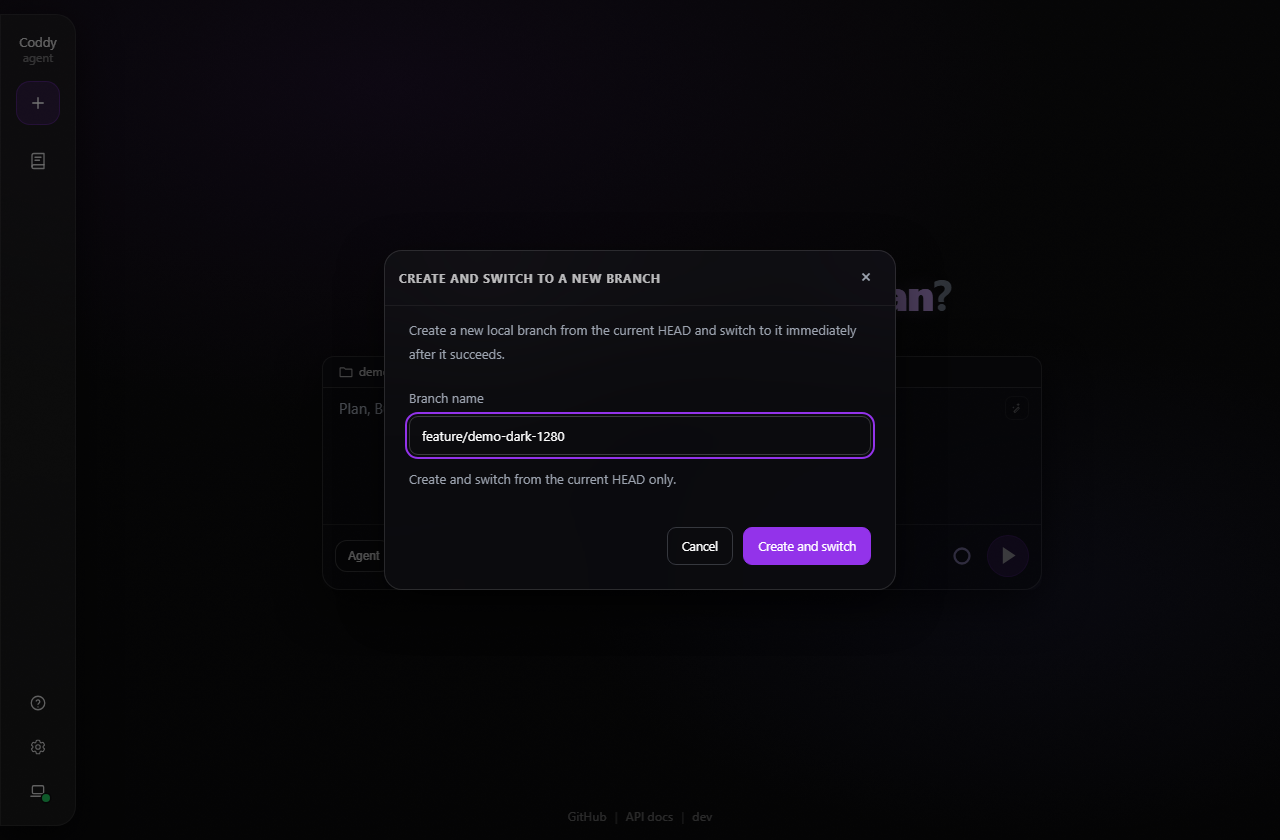
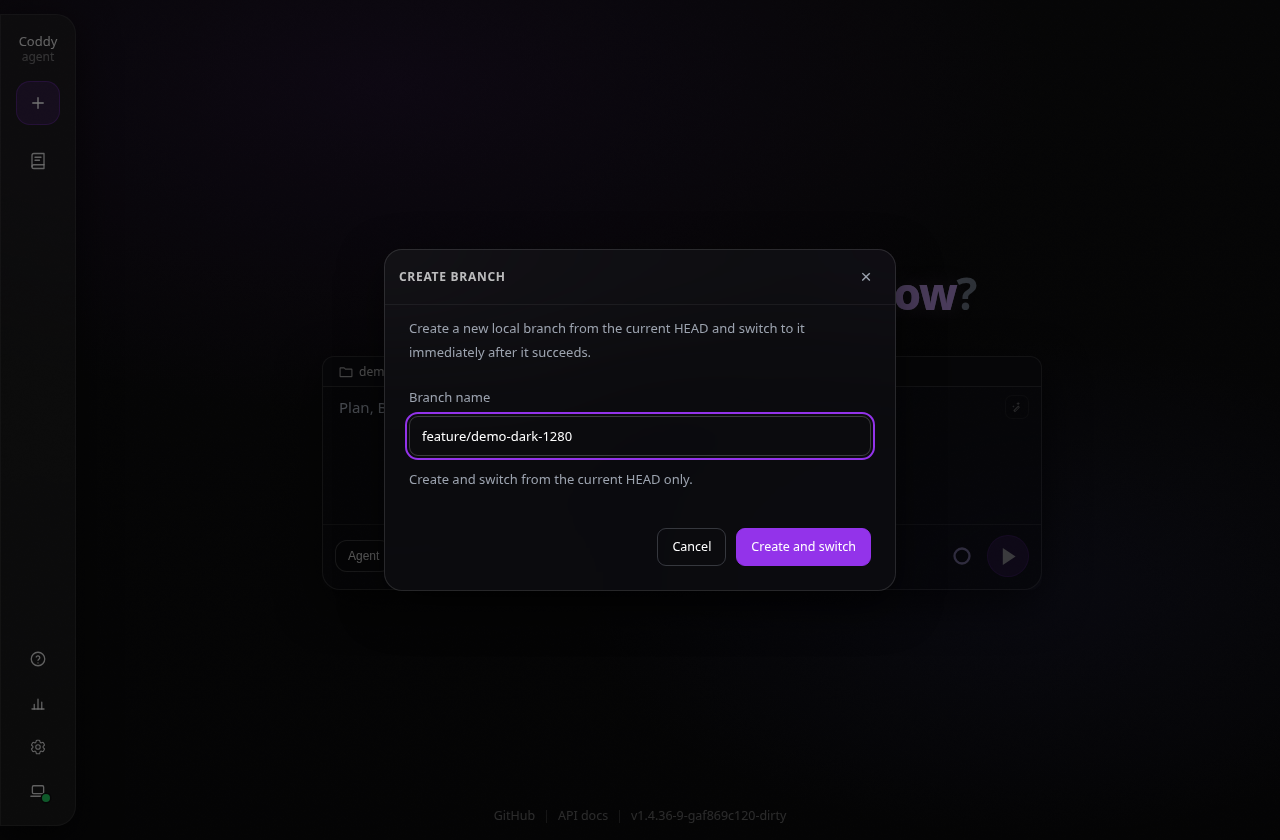
fix(ui): shorten the branch menu labels and name the graph by its content
The create row now reads "Create branch…" / "Создать ветку…" with the
dialog title following it, the confirm stays "Create and switch" /
"Создать и переключиться", and the graph menu reads "Commit history" /
"История коммитов" - one key the menu, the window title and the
aria-labels share. Tests, the workspace check script, both docs pages
and the spec name the labels as the interface shows them, and the docs
captures are retaken with the new titles.

diff --git a/external/ui/src/ui/i18n/messages/ru.ts b/external/ui/src/ui/i18n/messages/ru.ts
@@ -7,8 +7,8 @@ export const messagesRu: Record<string, string> = {
   "composer.serviceTier.ultrafast": "Сверхбыстрый",
   "composer.serviceTier.flex": "Flex",
 
-  "git.createMenu": "Создать ветку и переключиться…",
-  "git.createTitle": "Создать новую ветку и переключиться",
+  "git.createMenu": "Создать ветку…",
+  "git.createTitle": "Создать ветку",
   "git.createDescription":
     "Создайте локальную ветку от текущего HEAD и сразу переключитесь на неё.",
   "git.branchName": "Имя ветки",
@@ -17,7 +17,7 @@ export const messagesRu: Record<string, string> = {
   "git.createAction": "Создать и переключиться",
   "git.creating": "Создание…",
   "git.createFailed": "Не удалось создать ветку.",
-  "git.graph": "Git Graph",
+  "git.graph": "История коммитов",
   "git.refresh": "Обновить граф",
   "git.graphColumn": "Граф",
   "git.description": "Описание",

diff --git a/external/ui/src/ui/chat/WorkspaceChips.test.tsx b/external/ui/src/ui/chat/WorkspaceChips.test.tsx
@@ -61,16 +61,14 @@ afterEach(() => {
 });
 
 describe("WorkspaceChips", () => {
-  it("offers branch creation and Git Graph below the branch list", async () => {
+  it("offers branch creation and Commit history below the branch list", async () => {
     const create = vi.fn().mockResolvedValue(undefined);
     renderChips({ onCreateBranch: create });
     fireEvent.click(screen.getByTestId("composer-branch-chip"));
     expect(
-      screen.getByRole("menuitem", { name: "Git Graph" }),
+      screen.getByRole("menuitem", { name: "Commit history" }),
     ).toBeInTheDocument();
-    fireEvent.click(
-      screen.getByRole("menuitem", { name: /Create and switch to new branch/ }),
-    );
+    fireEvent.click(screen.getByRole("menuitem", { name: /Create branch/ }));
     expect(screen.queryByRole("menu")).toBeNull();
     const input = screen.getByRole("textbox", { name: "Branch name" });
     fireEvent.change(input, { target: { value: "feature/new" } });

diff --git a/external/ui/src/ui/i18n/messages/en.ts b/external/ui/src/ui/i18n/messages/en.ts
@@ -9,8 +9,8 @@ export const messagesEn: Record<string, string> = {
   "composer.serviceTier.ultrafast": "Ultrafast",
   "composer.serviceTier.flex": "Flex",
 
-  "git.createMenu": "Create and switch to new branch…",
-  "git.createTitle": "Create and switch to a new branch",
+  "git.createMenu": "Create branch…",
+  "git.createTitle": "Create branch",
   "git.createDescription":
     "Create a new local branch from the current HEAD and switch to it immediately after it succeeds.",
   "git.branchName": "Branch name",
@@ -19,7 +19,7 @@ export const messagesEn: Record<string, string> = {
   "git.createAction": "Create and switch",
   "git.creating": "Creating…",
   "git.createFailed": "Could not create the branch.",
-  "git.graph": "Git Graph",
+  "git.graph": "Commit history",
   "git.refresh": "Refresh graph",
   "git.graphColumn": "Graph",
   "git.description": "Description",

diff --git a/external/ui/src/ui/chat/WorkspaceBar.test.tsx b/external/ui/src/ui/chat/WorkspaceBar.test.tsx
@@ -177,7 +177,9 @@ test("a linked worktree has no exit button and its edits remain actionable", () 
   expect(onOpenEdits).toHaveBeenCalledTimes(1);
   expect(screen.queryByTestId("workspace-bar-leave")).toBeNull();
   expect(screen.getAllByRole("button")).toEqual([
-    screen.getByRole("button", { name: "Git Graph: feat/session-changes" }),
+    screen.getByRole("button", {
+      name: "Commit history: feat/session-changes",
+    }),
     edits,
   ]);
 });

diff --git a/external/ui/src/ui/chat/ChatScreen.test.tsx b/external/ui/src/ui/chat/ChatScreen.test.tsx
@@ -1210,7 +1210,9 @@ test("a linked worktree's plate has no exit button and still opens the edits", a
     expect(
       within(screen.getByTestId("workspace-bar")).getAllByRole("button"),
     ).toEqual([
-      screen.getByRole("button", { name: "Git Graph: feat/session-changes" }),
+      screen.getByRole("button", {
+        name: "Commit history: feat/session-changes",
+      }),
       edits,
     ]);
   } finally {

diff --git a/specs/ui/composer.md b/specs/ui/composer.md
@@ -63,13 +63,13 @@ The composer card has no chip row: before the chat starts, the folder, the branc
 - **What a new chat lists follows its folder** — the picked folder is the scope of everything the composer lists while you type: the **`/`** menu, **`@`** (files, rules, **`@agent:`** subagents), the mention highlight and the file a line range previews all carry **`cwd=<folder>`** next to the session header (**`chat/workspaceScope.ts`**). The known skill names that chip a **`/name`** in the composer and the transcript belong to the chat's folder and session: another pick or another session drops them at once and asks again, a late answer is discarded, and the first send of a new chat keeps them because its folder does not change.
 - Menus follow the **`Mode`**/**`Model`** conventions: anchored to the pick, **`mode-menu--portal`** (**`opens-down`** on the start screen, **`opens-up`** when docked) on desktop, full-width bottom sheet (**`mode-menu--sheet`**) on narrow shells.
 
-### Branch creation and Git Graph
+### Branch creation and commit history
 
-The branch menu ends with **Create and switch to new branch…** and **Git Graph**, below a separator. Both action rows keep a **14px** icon slot (**`.workspace-git-action-icon`**, the muted colour, a `PlusIcon` or `BranchIcon` svg) in the column the branch rows keep for the remote mark, and the label in **`.workspace-git-action-label`** with an ellipsis, so every row of the menu shares two columns. Creation is a centred form, at most 512px wide, with a description, labelled branch-name field, inline error, Cancel and Create and switch. It creates a local branch from the current checkout's HEAD immediately, independently of the worktree preference. The conversation lock still applies.
+The branch menu ends with **Create branch…** and **Commit history**, below a separator. Both action rows keep a **14px** icon slot (**`.workspace-git-action-icon`**, the muted colour, a `PlusIcon` or `BranchIcon` svg) in the column the branch rows keep for the remote mark, and the label in **`.workspace-git-action-label`** with an ellipsis, so every row of the menu shares two columns. Creation is a centred form, at most 512px wide, with a description, labelled branch-name field, inline error, Cancel and Create and switch. It creates a local branch from the current checkout's HEAD immediately, independently of the worktree preference. The conversation lock still applies.
 
 Both Git dialogs use the shared glass panel border, background, backdrop and shadow, the overlay scrim without fullscreen blur, and the app's inherited font. Their heads follow the Files window: 12px bold capitals in a 72% text tint and 30px icon controls. Buttons reuse the workspace dialog styles. Escape and a backdrop click close the window, Tab stays inside it, and closing returns focus to the branch control. Creation keeps the dialog open while a request runs and shows failures beside the field.
 
-Git Graph is at most 1100px wide and 740px tall, capped to the viewport with 16px margins. Its table has Graph, Description, Date, Author and Commit columns, 42px rows, sticky headings and a scrollport contained inside the window. Branch lines use the theme's syntax palette and accent. HEAD has an outlined label; other refs are muted, truncated with their full names in tooltips. The current row has a light text tint. Load more appends 100 commits; Refresh starts over. Narrow screens scroll the table horizontally while the head and footer remain visible. Simplified mode takes its opaque panel and cleared effects from the shared tokens.
+The commit history window is at most 1100px wide and 740px tall, capped to the viewport with 16px margins. Its table has Graph, Description, Date, Author and Commit columns, 42px rows, sticky headings and a scrollport contained inside the window. Branch lines use the theme's syntax palette and accent. HEAD has an outlined label; other refs are muted, truncated with their full names in tooltips. The current row has a light text tint. Load more appends 100 commits; Refresh starts over. Narrow screens scroll the table horizontally while the head and footer remain visible. Simplified mode takes its opaque panel and cleared effects from the shared tokens.
 
 A running chat's branch control opens this read-only graph; it never switches the locked workspace. The browser check is `npm run check:git`, with `CODDY_ENGINE=webkit` for WebKit.
 

diff --git a/docs/surfaces/web-ui.md b/docs/surfaces/web-ui.md
@@ -634,21 +634,21 @@ Functional checklist for **Settings -> Logical models -> Reasoning levels**
 - Errors (missing folder **400**, git conflicts / locked workspace **409**) keep the current chips; the context is re-fetched to stay truthful.
 - Automated checks: **`chat/workspaceContext.test.ts`**, **`chat/workspaceRecents.test.ts`** (helpers), **`chat/WorkspaceChips.test.tsx`** (chips, menus, the refresh behind the open branch list, the warning, remote rows, modal, lock), **`App.workspaceHome.test.tsx`** (which folder a refresh is asked for, and that a branch picked during it stays the choice), the scenario of the branch list during a refresh in **`features/web_ui_menus.feature`**; backend behavior is specified executable in **`features/workspace_switching.feature`** (godog), the fetch itself in **`internal/gitws/remotes_test.go`** (every remote, prune, nothing local touched, the refspec guard, the deadline, both git backends).
 
-### Branch creation and Git Graph
+### Branch creation and commit history
 
-The branch menu offers **Create and switch to new branch…**. Enter a branch name and choose **Create and switch**. Coddy creates a local branch at the checkout's current HEAD and switches immediately, before the first message. This action uses the current checkout even when the worktree checkbox is on. Git keeps uncommitted files when it can; an invalid or existing name leaves the dialog open with the error.
+The branch menu offers **Create branch…**. Enter a branch name and choose **Create and switch**. Coddy creates a local branch at the checkout's current HEAD and switches immediately, before the first message. This action uses the current checkout even when the worktree checkbox is on. Git keeps uncommitted files when it can; an invalid or existing name leaves the dialog open with the error.
 
 ![The create branch dialog in the dark theme](../assets/web-ui/git-branch-create-open-dark-1280.png)
 
-**Git Graph** in the same menu opens the commit history. After a conversation starts, click the branch name on the plate over the composer to open the graph. Creating or switching branches through the plate stays locked once the conversation starts.
+**Commit history** in the same menu opens the commit graph. After a conversation starts, click the branch name on the plate over the composer to open the graph. Creating or switching branches through the plate stays locked once the conversation starts.
 
 The graph shows branch and merge lines, HEAD, local and remote branch labels, tags, commit descriptions, dates, authors and short hashes. It reads 100 commits at a time; **Load more** adds older commits, and **Refresh graph** starts again from the newest ones. It reads local history without fetching or changing the checkout and requires the git executable.
 
-![Git Graph with a merge and branch labels in the dark theme](../assets/web-ui/git-graph-open-dark-1280.png)
+![Commit history with a merge and branch labels in the dark theme](../assets/web-ui/git-graph-open-dark-1280.png)
 
 On a phone the table scrolls horizontally inside the window. The title and close control stay in view. Both dialogs use the shared theme tokens and support Escape, keyboard focus within the dialog, and focus returning to the branch control.
 
-![Git Graph on a narrow screen](../assets/web-ui/git-graph-open-dark-390.png)
+![Commit history on a narrow screen](../assets/web-ui/git-graph-open-dark-390.png)
 
 Run `npm run check:git` in `external/ui` after building with `http,ui`. The check uses an isolated repository and no LLM, drives both dialogs on wide and narrow screens in light and dark themes, and checks transcript alignment. Set `CODDY_ENGINE=webkit` to run it in WebKit.
 

diff --git a/docs/assets/INDEX.md b/docs/assets/INDEX.md
@@ -554,9 +554,9 @@ Generated by `make docs`. "Used by" lists the files that reference the asset.
 | `diagrams-flowchart-dark-1280.png` | 258 KB | docs/ru/surfaces/web-ui.md, docs/surfaces/web-ui.md |
 | `diagrams-formulas-dark-1280.png` | 271 KB | docs/ru/surfaces/web-ui.md, docs/surfaces/web-ui.md |
 | `diagrams-source-dark-1280.png` | 288 KB | docs/ru/surfaces/web-ui.md, docs/surfaces/web-ui.md |
-| `git-branch-create-open-dark-1280.png` | 453 KB | docs/ru/surfaces/web-ui.md, docs/surfaces/web-ui.md |
-| `git-graph-open-dark-1280.png` | 239 KB | docs/ru/surfaces/web-ui.md, docs/surfaces/web-ui.md |
-| `git-graph-open-dark-390.png` | 87 KB | docs/ru/surfaces/web-ui.md, docs/surfaces/web-ui.md |
+| `git-branch-create-open-dark-1280.png` | 461 KB | docs/ru/surfaces/web-ui.md, docs/surfaces/web-ui.md |
+| `git-graph-open-dark-1280.png` | 278 KB | docs/ru/surfaces/web-ui.md, docs/surfaces/web-ui.md |
+| `git-graph-open-dark-390.png` | 103 KB | docs/ru/surfaces/web-ui.md, docs/surfaces/web-ui.md |
 | `kimi-onboarding-dark-1280.png` | 44 KB | docs/features/kimi.md, docs/ru/features/kimi.md |
 | `kimi-onboarding-platform-dark-390.png` | 49 KB | docs/features/kimi.md, docs/ru/features/kimi.md |
 | `live-status-spacing-working-dark-1280.png` | 95 KB | docs/ru/surfaces/web-ui.md, docs/surfaces/web-ui.md |
